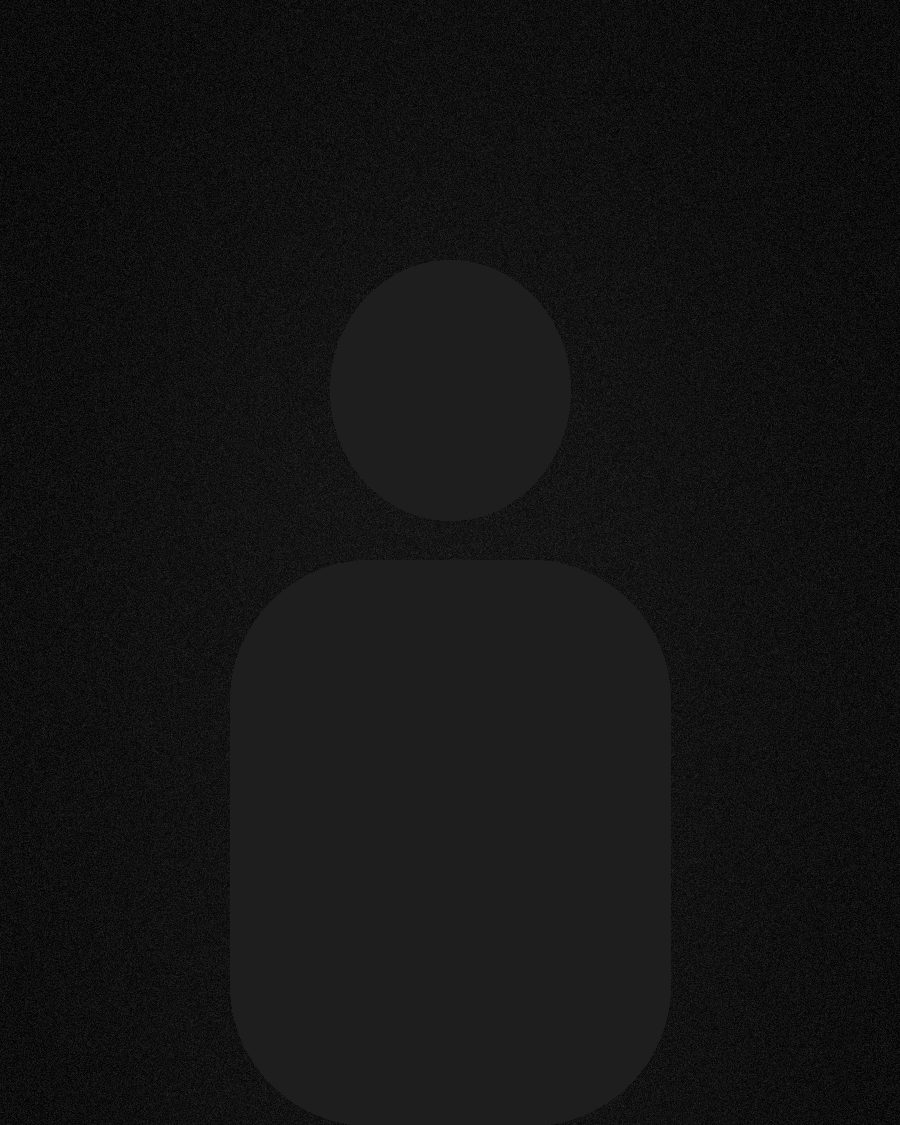
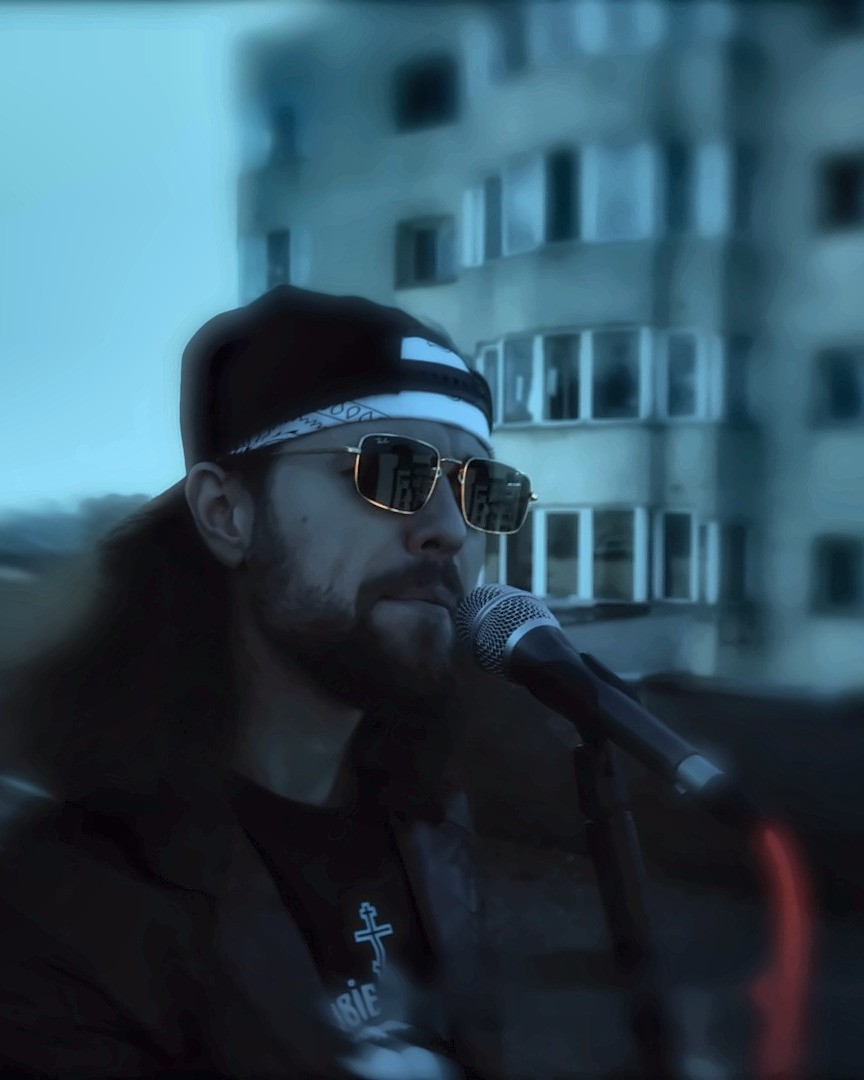
Add real photos and social profiles
- 18 video stills cleaned (burned-in subtitles removed, gentle denoise, contrast and sharpening);
  12 in the gallery, one as home hero, one as press photo, a portrait for the vocalist
- Member cards show the role while names are not public; only members with a photo get a card
- Instagram, YouTube, TikTok, SoundCloud, Facebook, X and Threads in footer, /links and schema sameAs
  (tracking parameters removed)

Claude-Session: https://claude.ai/code/session_017gMmfEepqpnnd4c8LNxGF5

diff --git a/src/content.config.ts b/src/content.config.ts
@@ -108,8 +108,8 @@ const members = defineCollection({
     name: z.string().min(1),
     role: localized,
     order: z.number().int(),
-    photo: image(),
-    photoAlt: localized,
+    photo: image().optional(),
+    photoAlt: localized.optional(),
     bio: localized.optional(),
   }),
 });
@@ -221,7 +221,7 @@ const links = defineCollection({
   schema: z.object({
     label: localized,
     url: url.nullable(),
-    icon: z.enum(['spotify', 'appleMusic', 'youtube', 'instagram', 'facebook', 'tiktok', 'bandcamp', 'linktree', 'shop', 'shows', 'mail', 'link', 'newsletter', 'soundcloud', 'deezer', 'x']),
+    icon: z.enum(['spotify', 'appleMusic', 'youtube', 'instagram', 'facebook', 'tiktok', 'bandcamp', 'linktree', 'shop', 'shows', 'mail', 'link', 'newsletter', 'soundcloud', 'deezer', 'x', 'threads']),
     order: z.number().int(),
     featured: z.boolean().default(false),
     /** Internal links (to this site) use a page key instead of a url. */

diff --git a/scripts/tools/clean-stills.py b/scripts/tools/clean-stills.py
@@ -1,0 +1,32 @@
+# One-time tool: removes burned-in subtitles from video stills and gives them a gentle quality pass.
+# Usage: pip install opencv-python-headless && python3 scripts/tools/clean-stills.py still1.jpg still2.jpg ...
+# Output goes to /tmp/claude-0/photos/out/ (change "out" below).
+import cv2, numpy as np, sys, glob, os
+src = sys.argv[1:]
+for i, p in enumerate(src, 1):
+    img = cv2.imread(p)
+    h, w = img.shape[:2]
+    hsv = cv2.cvtColor(img, cv2.COLOR_BGR2HSV)
+    # yellow-green subtitle text + its glow, only in the bottom band
+    band = np.zeros((h, w), np.uint8); band[int(h*0.86):int(h*0.96), :] = 255
+    text = cv2.inRange(hsv, (18, 35, 45), (48, 255, 255))
+    text = cv2.bitwise_and(text, band)
+    found = int(text.sum() / 255)
+    if found > 50:
+        mask = cv2.dilate(text, cv2.getStructuringElement(cv2.MORPH_ELLIPSE, (15, 15)), iterations=3)
+        img = cv2.inpaint(img, mask, 12, cv2.INPAINT_TELEA)
+        # soften the repaired area so it blends with the dreamy blur around it
+        blur = cv2.GaussianBlur(img, (0, 0), 6)
+        soft = cv2.GaussianBlur(cv2.dilate(mask, None, iterations=6).astype(np.float32) / 255, (0, 0), 8)[..., None]
+        img = (img * (1 - soft) + blur * soft).astype(np.uint8)
+    # gentle quality pass: light denoise, local contrast, mild sharpening
+    img = cv2.fastNlMeansDenoisingColored(img, None, 3, 3, 7, 21)
+    lab = cv2.cvtColor(img, cv2.COLOR_BGR2LAB)
+    l, a, b = cv2.split(lab)
+    l = cv2.createCLAHE(clipLimit=1.6, tileGridSize=(8, 8)).apply(l)
+    img = cv2.cvtColor(cv2.merge((l, a, b)), cv2.COLOR_LAB2BGR)
+    g = cv2.GaussianBlur(img, (0, 0), 1.6)
+    img = cv2.addWeighted(img, 1.35, g, -0.35, 0)
+    out = f'/tmp/claude-0/photos/out/photo-{i:02d}.jpg'
+    cv2.imwrite(out, img, [cv2.IMWRITE_JPEG_QUALITY, 92])
+    print(out, 'subtitle pixels:', found)
